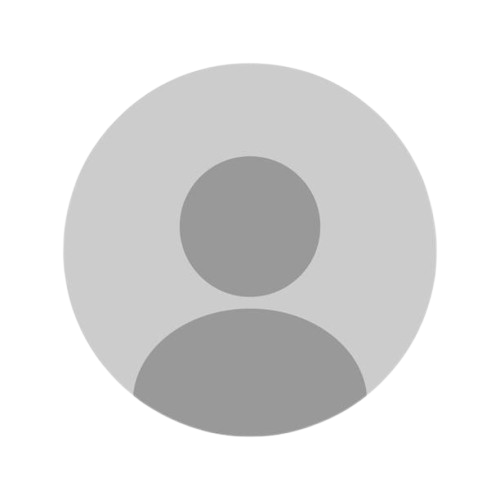
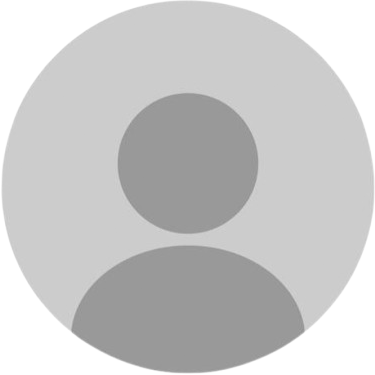
edit photo

diff --git a/lib/app/screens/edit_user/screens/edit_user.screen.dart b/lib/app/screens/edit_user/screens/edit_user.screen.dart
@@ -1,8 +1,14 @@
+import 'dart:io';
+
 import 'package:flutter/material.dart';
+import 'package:flutter/widgets.dart';
+import 'package:image_picker/image_picker.dart';
 import 'package:xwitter/app/common/controllers/user.controller.dart';
+import 'package:xwitter/app/common/helpers/file_to_base64.dart';
 import 'package:xwitter/app/common/models/user.model.dart';
 import 'package:xwitter/app/common/widgets/bottom_navigation_bar.widget.dart';
 import 'package:xwitter/app/common/widgets/primary_button.widget.dart';
+import 'package:xwitter/app/common/widgets/profile_photo.widget.dart';
 import 'package:xwitter/app/common/widgets/user_app_bar.widget.dart';
 
 class EditUserScreen extends StatefulWidget {
@@ -22,11 +28,56 @@ class EditUserScreen extends StatefulWidget {
 }
 
 class _EditUserScreen extends State<EditUserScreen> {
-  final IUserController userController = UserController();
-  final UserModel user = UserController().loggedUser!;
+  static final IUserController userController = UserController();
+  static final UserModel user = UserController().loggedUser!;
+  static const double headerHeight = 80;
+  static const double perfilPhotoSize = 130;
 
   late TextEditingController nameController;
   late TextEditingController bioController;
+
+  String? editingPhotoUrl = user.photoUrl;
+  File? perfilPhotoFile;
+
+  void onSave() async {
+    String name = nameController.text;
+    String bio = bioController.text;
+
+    String? photoBase64 = perfilPhotoFile != null
+        ? await fileToBase64(perfilPhotoFile!)
+        : editingPhotoUrl == null
+            ? ""
+            : null;
+
+    bool success = await userController.editUser(
+      user: user,
+      name: name,
+      bio: bio,
+      photoBase64: photoBase64,
+    );
+
+    if (success) {
+      widget.updateUserScreen(userController.loggedUser!);
+    }
+  }
+
+  void handleRemovePhoto() {
+    setState(() {
+      perfilPhotoFile = null;
+      editingPhotoUrl = null;
+    });
+  }
+
+  void selectImageFromGallery() async {
+    XFile? returnedFile =
+        await ImagePicker().pickImage(source: ImageSource.gallery);
+
+    if (returnedFile == null) return;
+
+    setState(() {
+      perfilPhotoFile = File(returnedFile.path);
+    });
+  }
 
   @override
   void initState() {
@@ -35,26 +86,9 @@ class _EditUserScreen extends State<EditUserScreen> {
     super.initState();
   }
 
-  void onSave() async {
-    String name = nameController.text;
-    String bio = bioController.text;
-
-    bool success = await userController.editUser(
-      user: user,
-      name: name,
-      bio: bio,
-      avatarPath: "",
-    );
-
-    if (success) {
-      widget.updateUserScreen(userController.loggedUser!);
-    }
-  }
-
   @override
   Widget build(BuildContext context) {
     final double screenWidth = MediaQuery.of(context).size.width;
-    const double headerHeight = 80;
 
     const InputBorder inputBorder = OutlineInputBorder(
       borderRadius: BorderRadius.all(Radius.circular(15)),
@@ -76,13 +110,51 @@ class _EditUserScreen extends State<EditUserScreen> {
       ),
       body: SizedBox(
         width: screenWidth,
-        child: Column(
-          mainAxisAlignment: MainAxisAlignment.start,
-          crossAxisAlignment: CrossAxisAlignment.start,
-          children: <Widget>[
-            Padding(
-              padding: const EdgeInsets.symmetric(horizontal: 15),
-              child: Column(
+        child: Padding(
+          padding: const EdgeInsets.fromLTRB(15, 20, 15, 0),
+          child: Column(
+            mainAxisAlignment: MainAxisAlignment.start,
+            crossAxisAlignment: CrossAxisAlignment.start,
+            children: <Widget>[
+              Row(
+                mainAxisAlignment: MainAxisAlignment.start,
+                crossAxisAlignment: CrossAxisAlignment.end,
+                children: <Widget>[
+                  perfilPhotoFile != null
+                      ? ClipRRect(
+                          borderRadius:
+                              const BorderRadius.all(Radius.circular(100)),
+                          child: Image.file(
+                            perfilPhotoFile!,
+                            width: perfilPhotoSize,
+                            height: perfilPhotoSize,
+                            fit: BoxFit.fill,
+                          ),
+                        )
+                      : ProfilePhotoWidget(
+                          photoUrl: editingPhotoUrl,
+                          size: perfilPhotoSize,
+                        ),
+                  const SizedBox(width: 20),
+                  Column(
+                    mainAxisAlignment: MainAxisAlignment.center,
+                    crossAxisAlignment: CrossAxisAlignment.start,
+                    children: <Widget>[
+                      PrimaryButtonWidget(
+                        text: "Remover",
+                        onPressed: handleRemovePhoto,
+                      ),
+                      const SizedBox(height: 5),
+                      PrimaryButtonWidget(
+                        text: "Selecionar nova foto",
+                        onPressed: selectImageFromGallery,
+                      ),
+                    ],
+                  ),
+                ],
+              ),
+              const SizedBox(height: 20),
+              Column(
                 mainAxisAlignment: MainAxisAlignment.start,
                 crossAxisAlignment: CrossAxisAlignment.start,
                 children: <Widget>[
@@ -112,10 +184,7 @@ class _EditUserScreen extends State<EditUserScreen> {
                   ),
                 ],
               ),
-            ),
-            Padding(
-              padding: const EdgeInsets.symmetric(horizontal: 15),
-              child: Column(
+              Column(
                 mainAxisAlignment: MainAxisAlignment.start,
                 crossAxisAlignment: CrossAxisAlignment.start,
                 children: <Widget>[
@@ -145,10 +214,7 @@ class _EditUserScreen extends State<EditUserScreen> {
                   ),
                 ],
               ),
-            ),
-            Padding(
-              padding: const EdgeInsets.symmetric(horizontal: 15),
-              child: Row(
+              Row(
                 mainAxisAlignment: MainAxisAlignment.end,
                 crossAxisAlignment: CrossAxisAlignment.center,
                 children: <Widget>[
@@ -158,8 +224,8 @@ class _EditUserScreen extends State<EditUserScreen> {
                   ),
                 ],
               ),
-            ),
-          ],
+            ],
+          ),
         ),
       ),
       bottomNavigationBar: BottomNavigationBarWidget(

diff --git a/lib/app/screens/user/widgets/user_data.widget.dart b/lib/app/screens/user/widgets/user_data.widget.dart
@@ -22,10 +22,7 @@ class UserDataWidget extends StatelessWidget {
   @override
   Widget build(BuildContext context) {
     return Padding(
-      padding: const EdgeInsets.only(
-        left: 20,
-        right: 20,
-      ),
+      padding: const EdgeInsets.symmetric(horizontal: 20),
       child: Column(
         mainAxisAlignment: MainAxisAlignment.start,
         crossAxisAlignment: CrossAxisAlignment.start,
@@ -36,16 +33,18 @@ class UserDataWidget extends StatelessWidget {
             children: <Widget>[
               Container(
                 width: avatarHeight,
+                height: avatarHeight,
                 decoration: BoxDecoration(
                   borderRadius: BorderRadius.circular(50),
                   color: Colors.white,
                   border: Border.all(
-                    width: 1,
+                    width: 3,
                     color: Colors.white,
                   ),
                 ),
                 child: ProfilePhotoWidget(
                   photoUrl: user.photoUrl,
+                  size: avatarHeight,
                 ),
               ),
               PrimaryButtonWidget(

diff --git a/lib/app/common/widgets/profile_photo.widget.dart b/lib/app/common/widgets/profile_photo.widget.dart
@@ -4,24 +4,29 @@ class ProfilePhotoWidget extends StatelessWidget {
   const ProfilePhotoWidget({
     super.key,
     required this.photoUrl,
-    this.width,
+    required this.size,
   });
 
   final String? photoUrl;
-  final double? width;
+  final double size;
 
   @override
   Widget build(BuildContext context) {
-    return photoUrl != null
-        ? Image.network(
-            photoUrl!,
-            width: width,
-            fit: BoxFit.contain,
-          )
-        : Image.asset(
-            "assets/profilePicure/default.png",
-            width: width,
-            fit: BoxFit.contain,
-          );
+    return ClipRRect(
+      borderRadius: const BorderRadius.all(Radius.circular(100)),
+      child: photoUrl != null
+          ? Image.network(
+              photoUrl!,
+              width: size,
+              height: size,
+              fit: BoxFit.fill,
+            )
+          : Image.asset(
+              "assets/profilePicure/default.png",
+              width: size,
+              height: size,
+              fit: BoxFit.fill,
+            ),
+    );
   }
 }

diff --git a/lib/app/common/controllers/user.controller.dart b/lib/app/common/controllers/user.controller.dart
@@ -33,7 +33,7 @@ abstract class IUserController {
     required UserModel user,
     required String name,
     required String bio,
-    required String avatarPath,
+    required String? photoBase64,
   });
 
   Future<UserData?> getUserData({required UserModel oldUser});
@@ -179,7 +179,7 @@ class UserController implements IUserController {
     required UserModel user,
     required String name,
     required String bio,
-    required String avatarPath,
+    required String? photoBase64,
   }) async {
     ValidatorFailure nameValidate = validators.validateName(name);
     if (!nameValidate.valid) {
@@ -191,7 +191,7 @@ class UserController implements IUserController {
       user: user,
       name: name,
       bio: bio,
-      photoBase64: avatarPath,
+      photoBase64: photoBase64,
     );
 
     if (newUser == null) {

diff --git a/lib/app/common/services/user.service.dart b/lib/app/common/services/user.service.dart
@@ -25,7 +25,7 @@ abstract class IUserService {
     required UserModel user,
     required String name,
     required String bio,
-    required String photoBase64,
+    required String? photoBase64,
   });
 
   Future<List<UserModel>> listUsersByText({required String text});
@@ -134,7 +134,7 @@ class UserService implements IUserService {
     required UserModel user,
     required String name,
     required String bio,
-    required String photoBase64,
+    required String? photoBase64,
   }) async {
     final url = "$getApiUrl/update";
     Map<String, dynamic> jsonRequest = {

diff --git a/lib/app/screens/create_tweet/screens/create_tweet.screen.dart b/lib/app/screens/create_tweet/screens/create_tweet.screen.dart
@@ -80,7 +80,7 @@ class _CreateTweetScreen extends State<CreateTweetScreen> {
                 decoration: InputDecoration(
                   icon: ProfilePhotoWidget(
                     photoUrl: loggedUser.photoUrl,
-                    width: 35,
+                    size: 35,
                   ),
                   border: InputBorder.none,
                   hintText: "Como você está?",

diff --git a/lib/app/common/widgets/tweet.widget.dart b/lib/app/common/widgets/tweet.widget.dart
@@ -60,7 +60,7 @@ class _TweetWidget extends State<TweetWidget> {
           children: <Widget>[
             ProfilePhotoWidget(
               photoUrl: tweet.user.photoUrl,
-              width: avatarWidth,
+              size: avatarWidth,
             ),
             const SizedBox(width: gapWidth),
             Column(

diff --git a/lib/app/common/widgets/user.widget.dart b/lib/app/common/widgets/user.widget.dart
@@ -24,7 +24,7 @@ class UserWidget extends StatelessWidget {
           children: <Widget>[
             ProfilePhotoWidget(
               photoUrl: user.photoUrl,
-              width: 60,
+              size: 60,
             ),
             Padding(
               padding: const EdgeInsets.only(left: 10, top: 15),

diff --git a/lib/app/common/models/user.model.dart b/lib/app/common/models/user.model.dart
@@ -4,7 +4,7 @@ class UserModel {
   final String username;
   final int numberOfFollowings;
   String name;
-  String? photoUrl;
+  final String? photoUrl;
   String bio;
   int numberOfFollowers;
   bool following;

diff --git a/lib/app/common/helpers/file_to_base64.dart b/lib/app/common/helpers/file_to_base64.dart
@@ -1,0 +1,8 @@
+import 'dart:convert';
+import 'dart:io';
+
+Future<String> fileToBase64(File file) async {
+  final bytes = await file.readAsBytes();
+  String img64 = base64Encode(bytes);
+  return img64;
+}
